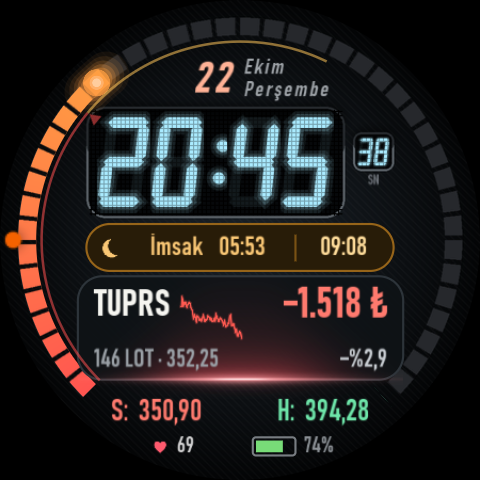
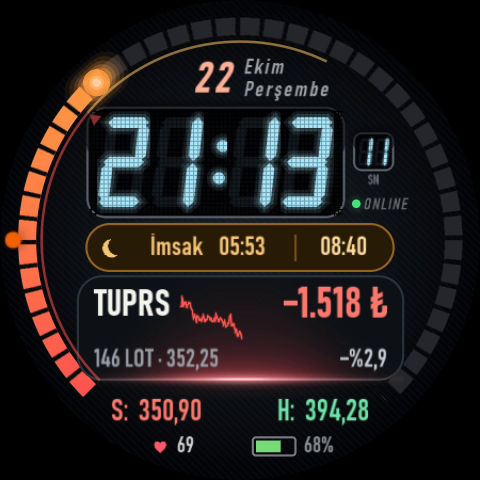
Saat: canlı/bayat göstergesi (SN altında yanıp sönen yeşil nokta + ONLINE / gri OFFLINE, monitor kalp atışı), kutucukta SATTIM (onay ekranlı) ve BEKLE/DEVAM ET butonları

diff --git a/WatchApp/app/src/main/java/com/biokpl/gridwatch/AlSatTileService.kt b/WatchApp/app/src/main/java/com/biokpl/gridwatch/AlSatTileService.kt
@@ -1,7 +1,9 @@
 package com.biokpl.gridwatch
 
 import androidx.concurrent.futures.SuspendToFutureAdapter
+import androidx.wear.protolayout.ActionBuilders
 import androidx.wear.protolayout.ColorBuilders.argb
+import androidx.wear.protolayout.ModifiersBuilders
 import androidx.wear.protolayout.DimensionBuilders.degrees
 import androidx.wear.protolayout.DimensionBuilders.dp
 import androidx.wear.protolayout.DimensionBuilders.expand
@@ -34,12 +36,21 @@ private const val GREEN_SOFT = 0xFF97C459.toInt()
 private const val WHITE = 0xFFF1EFE8.toInt()
 private const val GRAY = 0xFFB4B2A9.toInt()
 private const val GRAY_DARK = 0xFF5F5E5A.toInt()
+private const val CYAN = 0xFF22D3EE.toInt()
+private const val ICE = 0xFF7DD3FC.toInt()
+private const val ID_HOLD = "hold"
 
 /** Kaydırınca açılan detay kutucuğu — tasarım taslağındaki 3 durum. */
 class AlSatTileService : TileService() {
 
     override fun onTileRequest(requestParams: RequestBuilders.TileRequest): ListenableFuture<TileBuilders.Tile> =
         SuspendToFutureAdapter.launchFuture {
+            // BEKLE / DEVAM ET düğmesi: kutucuk yeniden istenir, komut burada gönderilir
+            if (requestParams.currentState.lastClickableId == ID_HOLD) {
+                val cur = AlSatRepo.get(applicationContext)
+                if (cur.mode == Snapshot.Mode.ACTIVE)
+                    AlSatRepo.sendAction(if (cur.hold) "hold_off" else "hold", cur.symbol)
+            }
             val s = AlSatRepo.get(applicationContext)
             TileBuilders.Tile.Builder()
                 .setResourcesVersion("1")
@@ -67,6 +78,38 @@ class AlSatTileService : TileService() {
             .addContent(ArcLine.Builder().setLength(degrees(length)).setThickness(dp(thick)).setColor(argb(color)).build())
             .build()
 
+    private fun button(label: String, fg: Int, bg: Int, click: ModifiersBuilders.Clickable): LayoutElement =
+        Box.Builder().setWidth(dp(64f)).setHeight(dp(28f))
+            .setModifiers(
+                ModifiersBuilders.Modifiers.Builder()
+                    .setClickable(click)
+                    .setBackground(
+                        ModifiersBuilders.Background.Builder().setColor(argb(bg))
+                            .setCorner(ModifiersBuilders.Corner.Builder().setRadius(dp(14f)).build()).build()
+                    )
+                    .setBorder(ModifiersBuilders.Border.Builder().setWidth(dp(1f)).setColor(argb(fg)).build())
+                    .build()
+            )
+            .addContent(text(label, 12f, fg, true))
+            .build()
+
+    private fun buttons(s: Snapshot): LayoutElement {
+        val sold = ModifiersBuilders.Clickable.Builder().setId("sold").setOnClick(
+            ActionBuilders.LaunchAction.Builder().setAndroidActivity(
+                ActionBuilders.AndroidActivity.Builder()
+                    .setPackageName(packageName).setClassName(SoldConfirmActivity::class.java.name)
+                    .build()
+            ).build()
+        ).build()
+        val hold = ModifiersBuilders.Clickable.Builder().setId(ID_HOLD)
+            .setOnClick(ActionBuilders.LoadAction.Builder().build()).build()
+        return Row.Builder()
+            .addContent(button("SATTIM", 0xFFFFBEBE.toInt(), 0xFF5A181A.toInt(), sold))
+            .addContent(Spacer.Builder().setWidth(dp(8f)).build())
+            .addContent(button(if (s.hold) "DEVAM ET" else "BEKLE", CYAN, 0xFF0A343E.toInt(), hold))
+            .build()
+    }
+
     private fun pair(left: String, lc: Int, right: String, rc: Int): LayoutElement =
         Row.Builder()
             .addContent(text(left, 13f, lc))
@@ -80,16 +123,27 @@ class AlSatTileService : TileService() {
         when (s.mode) {
             Snapshot.Mode.ACTIVE -> {
                 val sig = s.signal.ifEmpty { "DEVAM" }
-                val sigColor = when (sig) { "DİKKAT" -> AMBER; "ÇIK", "ACİL_ÇIK" -> CORAL; else -> TEAL_LIGHT }
+                val sigColor = when {
+                    s.hold -> ICE
+                    sig == "DİKKAT" -> AMBER
+                    sig == "ÇIK" || sig == "ACİL_ÇIK" -> CORAL
+                    else -> TEAL_LIGHT
+                }
+                val sigText = if (s.hold) "BEKLEMEDE" else sig.replace('_', ' ')
                 ring = arc(225f, 270f * s.progress, if (s.pnlTl >= 0) TEAL else CORAL)
-                col.addContent(text("● ${sig.replace('_', ' ')}", 12f, sigColor))
+                col.addContent(text("● $sigText", 12f, sigColor))
                     .addContent(text(s.symbol, 22f, WHITE, true))
                     .addContent(text(fmtTl(s.pnlTl), 24f, if (s.pnlTl >= 0) TEAL else CORAL, true))
                     .addContent(text("${fmtPrice(s.price)} · ${fmtPct(s.pnlPct)} · ${s.qty} lot", 12f, GRAY))
                     .addContent(gap(5f))
                     .addContent(pair("S ${fmtPrice(s.stop)}", RED_SOFT, "H ${fmtPrice(s.target)}", GREEN_SOFT))
-                    .addContent(gap(3f))
-                    .addContent(text("${s.updated.takeLast(5)} · gecikmeli", 11f, GRAY_DARK))
+                    .addContent(gap(6f))
+                    .addContent(buttons(s))
+                    .addContent(gap(4f))
+                    .addContent(
+                        if (s.live) text("● ONLINE · gecikmeli", 10f, 0xFF46E682.toInt())
+                        else text("● OFFLINE", 10f, GRAY_DARK)
+                    )
             }
             Snapshot.Mode.PICK -> {
                 ring = arc(0f, 360f, PURPLE)

diff --git a/WatchApp/app/src/main/java/com/biokpl/gridwatch/SoldConfirmActivity.kt b/WatchApp/app/src/main/java/com/biokpl/gridwatch/SoldConfirmActivity.kt
@@ -1,0 +1,77 @@
+package com.biokpl.gridwatch
+
+import android.app.Activity
+import android.graphics.Color
+import android.graphics.Typeface
+import android.graphics.drawable.GradientDrawable
+import android.os.Bundle
+import android.view.Gravity
+import android.widget.LinearLayout
+import android.widget.TextView
+import android.widget.Toast
+import androidx.wear.tiles.TileService
+import kotlinx.coroutines.CoroutineScope
+import kotlinx.coroutines.Dispatchers
+import kotlinx.coroutines.launch
+
+/**
+ * Kutucuktaki SATTIM düğmesi → onay ekranı. "Evet, sattım" sayfadaki Sattım butonuyla
+ * aynı komutu yazar (fiyat boş → monitor anlık fiyatı tahmin olarak kullanır; sonra kalemle düzeltilebilir).
+ */
+class SoldConfirmActivity : Activity() {
+    private val scope = CoroutineScope(Dispatchers.Main)
+
+    override fun onCreate(savedInstanceState: Bundle?) {
+        super.onCreate(savedInstanceState)
+        val dp = resources.displayMetrics.density
+        val root = LinearLayout(this).apply {
+            orientation = LinearLayout.VERTICAL; gravity = Gravity.CENTER
+            setBackgroundColor(Color.BLACK); setPadding((20 * dp).toInt(), 0, (20 * dp).toInt(), 0)
+        }
+        setContentView(root)
+        scope.launch {
+            val s = AlSatRepo.get(applicationContext)
+            build(root, s, dp)
+        }
+    }
+
+    private fun tv(t: String, sp: Float, c: Int, bold: Boolean = false) = TextView(this).apply {
+        text = t; textSize = sp; setTextColor(c); gravity = Gravity.CENTER
+        if (bold) typeface = Typeface.DEFAULT_BOLD
+    }
+
+    private fun build(root: LinearLayout, s: Snapshot, dp: Float) {
+        if (s.mode != Snapshot.Mode.ACTIVE) {
+            root.addView(tv("Açık pozisyon yok", 16f, Color.WHITE, true))
+            return
+        }
+        root.addView(tv("${s.symbol} sattın mı?", 18f, 0xFFF1EFE8.toInt(), true))
+        root.addView(tv("${s.qty} lot · ~${fmtPrice(s.price)}", 13f, 0xFFB4B2A9.toInt()))
+        root.addView(tv("(fiyatı sonra kalemle düzeltebilirsin)", 10f, 0xFF6E6E6A.toInt()))
+        val yes = tv("EVET, SATTIM", 15f, 0xFFFFBEBE.toInt(), true).apply {
+            background = GradientDrawable().apply {
+                cornerRadius = 22 * dp; setColor(0xFF5A181A.toInt())
+                setStroke((1.5f * dp).toInt(), 0xFFE24B4A.toInt())
+            }
+            setPadding((22 * dp).toInt(), (10 * dp).toInt(), (22 * dp).toInt(), (10 * dp).toInt())
+            setOnClickListener {
+                isEnabled = false; text = "Gönderiliyor…"
+                scope.launch {
+                    val ok = AlSatRepo.sendAction("sold", s.symbol)
+                    Toast.makeText(
+                        this@SoldConfirmActivity,
+                        if (ok) "Satış kaydedildi" else "Bağlantı hatası", Toast.LENGTH_SHORT
+                    ).show()
+                    TileService.getUpdater(applicationContext).requestUpdate(AlSatTileService::class.java)
+                    finish()
+                }
+            }
+        }
+        root.addView(yes, LinearLayout.LayoutParams(
+            LinearLayout.LayoutParams.WRAP_CONTENT, LinearLayout.LayoutParams.WRAP_CONTENT
+        ).apply { topMargin = (14 * dp).toInt() })
+        root.addView(tv("Vazgeç", 14f, 0xFF96968F.toInt()).apply {
+            setPadding(0, (12 * dp).toInt(), 0, (8 * dp).toInt()); setOnClickListener { finish() }
+        })
+    }
+}

diff --git a/WatchApp/app/src/main/java/com/biokpl/gridwatch/AlSatRepo.kt b/WatchApp/app/src/main/java/com/biokpl/gridwatch/AlSatRepo.kt
@@ -32,6 +32,8 @@ data class Snapshot(
     val trades: Int = 0,
     val winRate: Int = 0,
     val updated: String = "",
+    val live: Boolean = false,   // monitor son 10 dk içinde kalp attı (PC + piyasa açık)
+    val hold: Boolean = false,   // "Beklemede Kalıyorum" modu
 ) {
     enum class Mode { ACTIVE, PICK, WAIT, NO_DATA }
 
@@ -82,6 +84,9 @@ object AlSatRepo {
     private const val URL_ADVISOR =
         "https://grid-tracker-73ed2-default-rtdb.europe-west1.firebasedatabase.app/gridtracker/advisor.json"
     private const val TTL_MS = 60_000L
+    private const val URL_ACTION =
+        "https://grid-tracker-73ed2-default-rtdb.europe-west1.firebasedatabase.app/gridtracker/advisor/userAction.json"
+    private const val LIVE_SEC = 600L
     private val mutex = Mutex()
     private var cache: Snapshot? = null
     private var cacheTs = 0L
@@ -95,6 +100,28 @@ object AlSatRepo {
         val snap = body?.let { runCatching { parse(it) }.getOrNull() } ?: Snapshot(Snapshot.Mode.NO_DATA)
         cache = snap; cacheTs = now
         snap
+    }
+
+    /** Sonraki get() ağdan taze okusun. */
+    fun invalidate() { cacheTs = 0L }
+
+    /** Saatten kullanıcı komutu (sayfadaki Sattım/Beklemede ile aynı kanal; PC'deki monitor işler). */
+    suspend fun sendAction(action: String, symbol: String): Boolean = withContext(Dispatchers.IO) {
+        val now = System.currentTimeMillis()
+        val body = JSONObject().put("action", action).put("symbol", symbol).put("ts", now)
+            .put("id", "watch-$now-${(1000..9999).random()}").toString()
+        val ok = runCatching {
+            val c = URL(URL_ACTION).openConnection() as HttpURLConnection
+            c.requestMethod = "PUT"; c.doOutput = true
+            c.connectTimeout = 15_000; c.readTimeout = 15_000
+            c.setRequestProperty("Content-Type", "application/json")
+            try {
+                c.outputStream.use { it.write(body.toByteArray()) }
+                c.responseCode == 200
+            } finally { c.disconnect() }
+        }.getOrDefault(false)
+        invalidate()
+        ok
     }
 
     private suspend fun fetch(): String? = withContext(Dispatchers.IO) {
@@ -114,6 +141,12 @@ object AlSatRepo {
 
     private fun parse(text: String): Snapshot {
         val root = JSONObject(text)
+        val hb = root.optLong("heartbeat", 0L)
+        val live = hb > 0 && System.currentTimeMillis() / 1000 - hb < LIVE_SEC
+        return parseMode(root).copy(live = live)
+    }
+
+    private fun parseMode(root: JSONObject): Snapshot {
         val tr = root.optJSONObject("tracker") ?: JSONObject()
         val perf = tr.optJSONObject("perf") ?: JSONObject()
         val total = tr.optDouble("history_pnl_total", 0.0)
@@ -136,6 +169,7 @@ object AlSatRepo {
                 stopLoss = tr.optDouble("stop_loss", 0.0),
                 signal = if (sig == "—") "DEVAM" else sig,
                 totalPnl = total, trades = trades, winRate = wr, updated = updated,
+                hold = tr.optBoolean("hold", false),
             )
         }
 

diff --git a/WatchApp/app/src/main/java/com/biokpl/gridwatch/Complications.kt b/WatchApp/app/src/main/java/com/biokpl/gridwatch/Complications.kt
@@ -72,7 +72,8 @@ private fun targetText(s: Snapshot): String = when {
 
 private fun stopData(s: Snapshot): ComplicationData {
     val hard = s.ringPos(s.stop).coerceAtLeast(0f)
-    return ranged(hard, 0f, 1f, " ", stopText(s))
+    // max = canlılık bayrağı: 1 → ONLINE, 1.5 → OFFLINE (kadran [RANGED_VALUE_MAX] ile okur)
+    return ranged(hard, 0f, if (s.live) 1f else 1.5f, " ", stopText(s))
 }
 
 private fun targetData(s: Snapshot): ComplicationData {

diff --git a/WatchApp/design/gen_faces.py b/WatchApp/design/gen_faces.py
@@ -341,7 +341,7 @@ def face_ultra():
     fb, hb = glyph_set(dr, "bc", "Bold Condensed", 44)      # kullanım ~36 px
     fs, hs = glyph_set(dr, "sc", "SemiBold Condensed", 30)  # kullanım ~21-26 px
     fbi = glyph_set(dr, "bci", "Bold Condensed", 44, 0.21, "0123456789")[0]     # tarih: italik gün sayısı
-    fsi = glyph_set(dr, "sci", "SemiBold Condensed", 30, 0.21, TR_DATE)[0]      # tarih: italik ay / gün adı
+    fsi = glyph_set(dr, "sci", "SemiBold Condensed", 30, 0.21, "".join(sorted(set(TR_DATE + "ONLINEOFF"))))[0]      # tarih: italik ay / gün adı
     # VFD rakamları: gerçek TTF (bitmap glifler AOD geçişinde CPU'yu kilitliyordu)
     import build_vfd_font
     (d / "src/main/res/font").mkdir(parents=True, exist_ok=True)
@@ -450,6 +450,25 @@ def face_ultra():
                 '<Transform target="angle" value="270 * [COMPLICATION.RANGED_VALUE_VALUE] - 135" />'
                 '<Image resource="stop_tri" /></PartImage></Compare></Condition>')
 
+    def live_badge():
+        """SN altında veri durumu: yeşil yanıp sönen nokta + ONLINE / gri nokta + OFFLINE.
+        Canlılık Stop yuvasının MAX değerinde gelir (1 = canlı, 1.5 = bayat)."""
+        blink_d = '<Transform target="alpha" value="160 + 95 * cos(3.14159265 * [SECOND_MILLISECOND])" />'
+        blink_g = '<Transform target="alpha" value="70 + 60 * cos(3.14159265 * [SECOND_MILLISECOND])" />'
+        def dot(col, glow):
+            g = (f'<PartDraw x="324" y="181" width="20" height="20">{amb(0)}{blink_g}'
+                 '<Ellipse x="0" y="0" width="20" height="20"><Fill color="#ffffffff">'
+                 '<RadialGradient centerX="10" centerY="10" radius="10" colors="#9046e682 #3046e682 #0046e682" positions="0 0.5 1" />'
+                 '</Fill></Ellipse></PartDraw>') if glow else ''
+            return g + (f'<PartDraw x="330" y="187" width="8" height="8">{amb(0)}{blink_d if glow else ""}'
+                        f'<Ellipse x="0" y="0" width="8" height="8"><Fill color="{col}" /></Ellipse></PartDraw>')
+        def label(t, col):
+            return (f'<PartText x="341" y="184" width="64" height="16">{amb(0)}'
+                    f'<Text align="START"><BitmapFont family="sci" size="16" color="{col}">{t}</BitmapFont></Text></PartText>')
+        return ('<Condition><Expressions><Expression name="live"><![CDATA[[COMPLICATION.RANGED_VALUE_MAX] < 1.2]]></Expression></Expressions>'
+                f'<Compare expression="live">{dot("#ff46e682", True)}{label("ONLINE", "#a5969ba0")}</Compare>'
+                f'<Default>{dot("#ff6e7278", False)}{label("OFFLINE", "#7d969ba0")}</Default></Condition>')
+
     def zone(t0, t1, col):
         return (f'<PartDraw x="0" y="0" width="450" height="450">{amb(90)}'
                 f'<Arc centerX="225" centerY="225" width="{round(2 * RI)}" height="{round(2 * RI)}" startAngle="225" endAngle="225">'
@@ -540,7 +559,7 @@ def face_ultra():
               + text(k(190), 0, pw - k(28) - k(190), k(30), "%s", ["[COMPLICATION.TITLE]"], "sc", k(24), "#ffc8cdd2", "END", 0))}
 
         {slot(3, 0, 0, 450, 450, "RANGED_VALUE", APP + "StopComplicationService", "RANGED_VALUE", "slot_alsat",
-              zone("0", "[COMPLICATION.RANGED_VALUE_VALUE]", "#8cff5050") + stop_marker()
+              zone("0", "[COMPLICATION.RANGED_VALUE_VALUE]", "#8cff5050") + stop_marker() + live_badge()
               + text(SX(k(96)), SY(k(376)), k(140), k(32), "%s", ["[COMPLICATION.TEXT]"], "sc", k(28), RED, "CENTER", 120),
               '<BoundingOval x="0" y="0" width="450" height="450" />')}
         {slot(4, 0, 0, 450, 450, "RANGED_VALUE", APP + "TargetComplicationService", "RANGED_VALUE", "slot_alsat",
